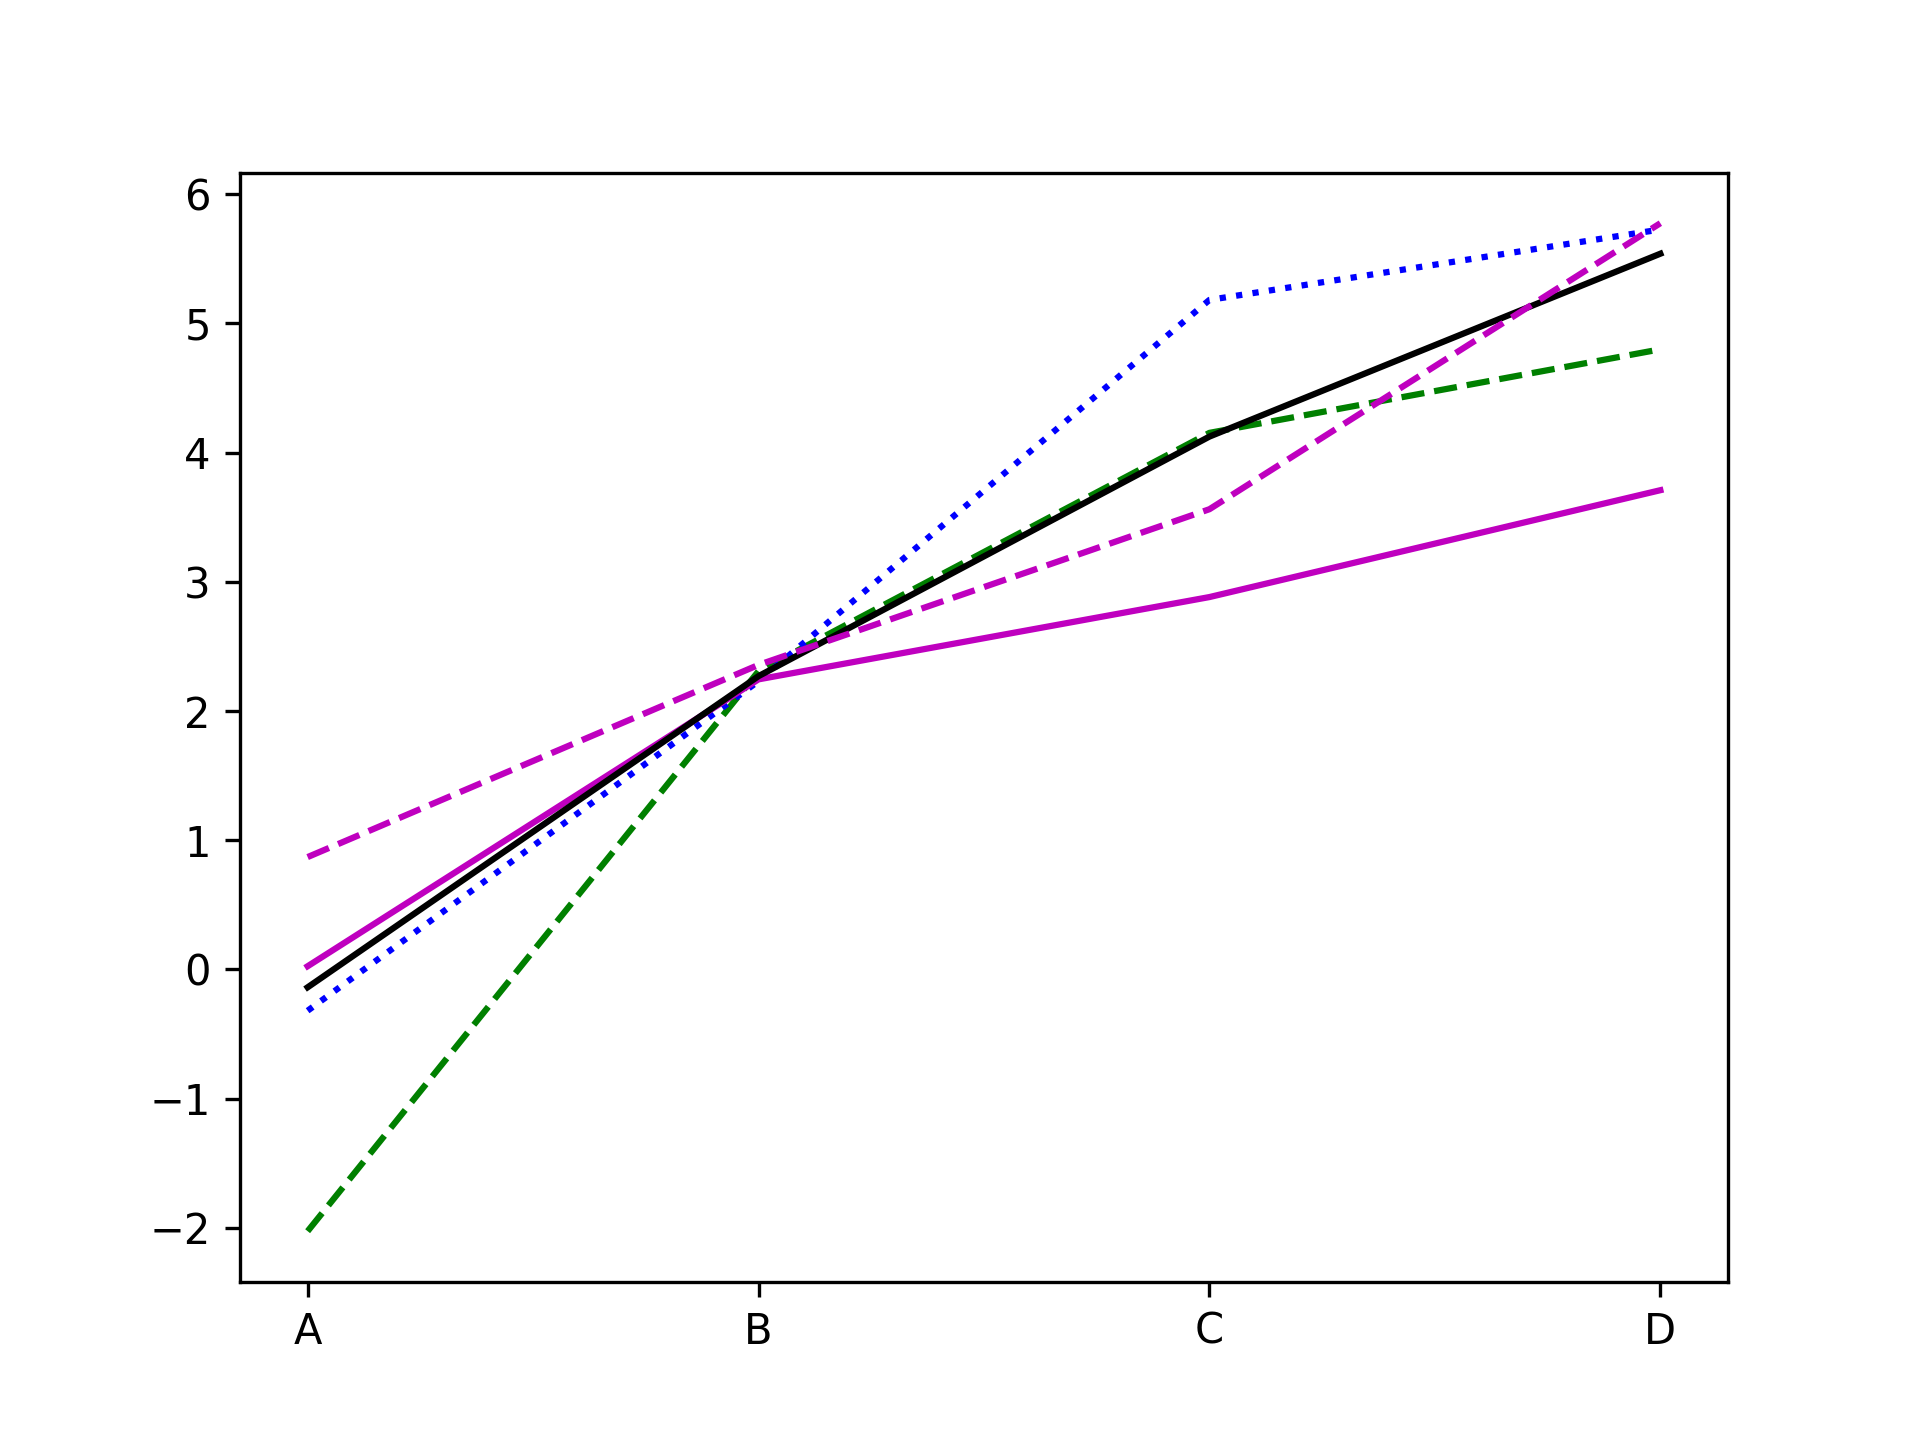
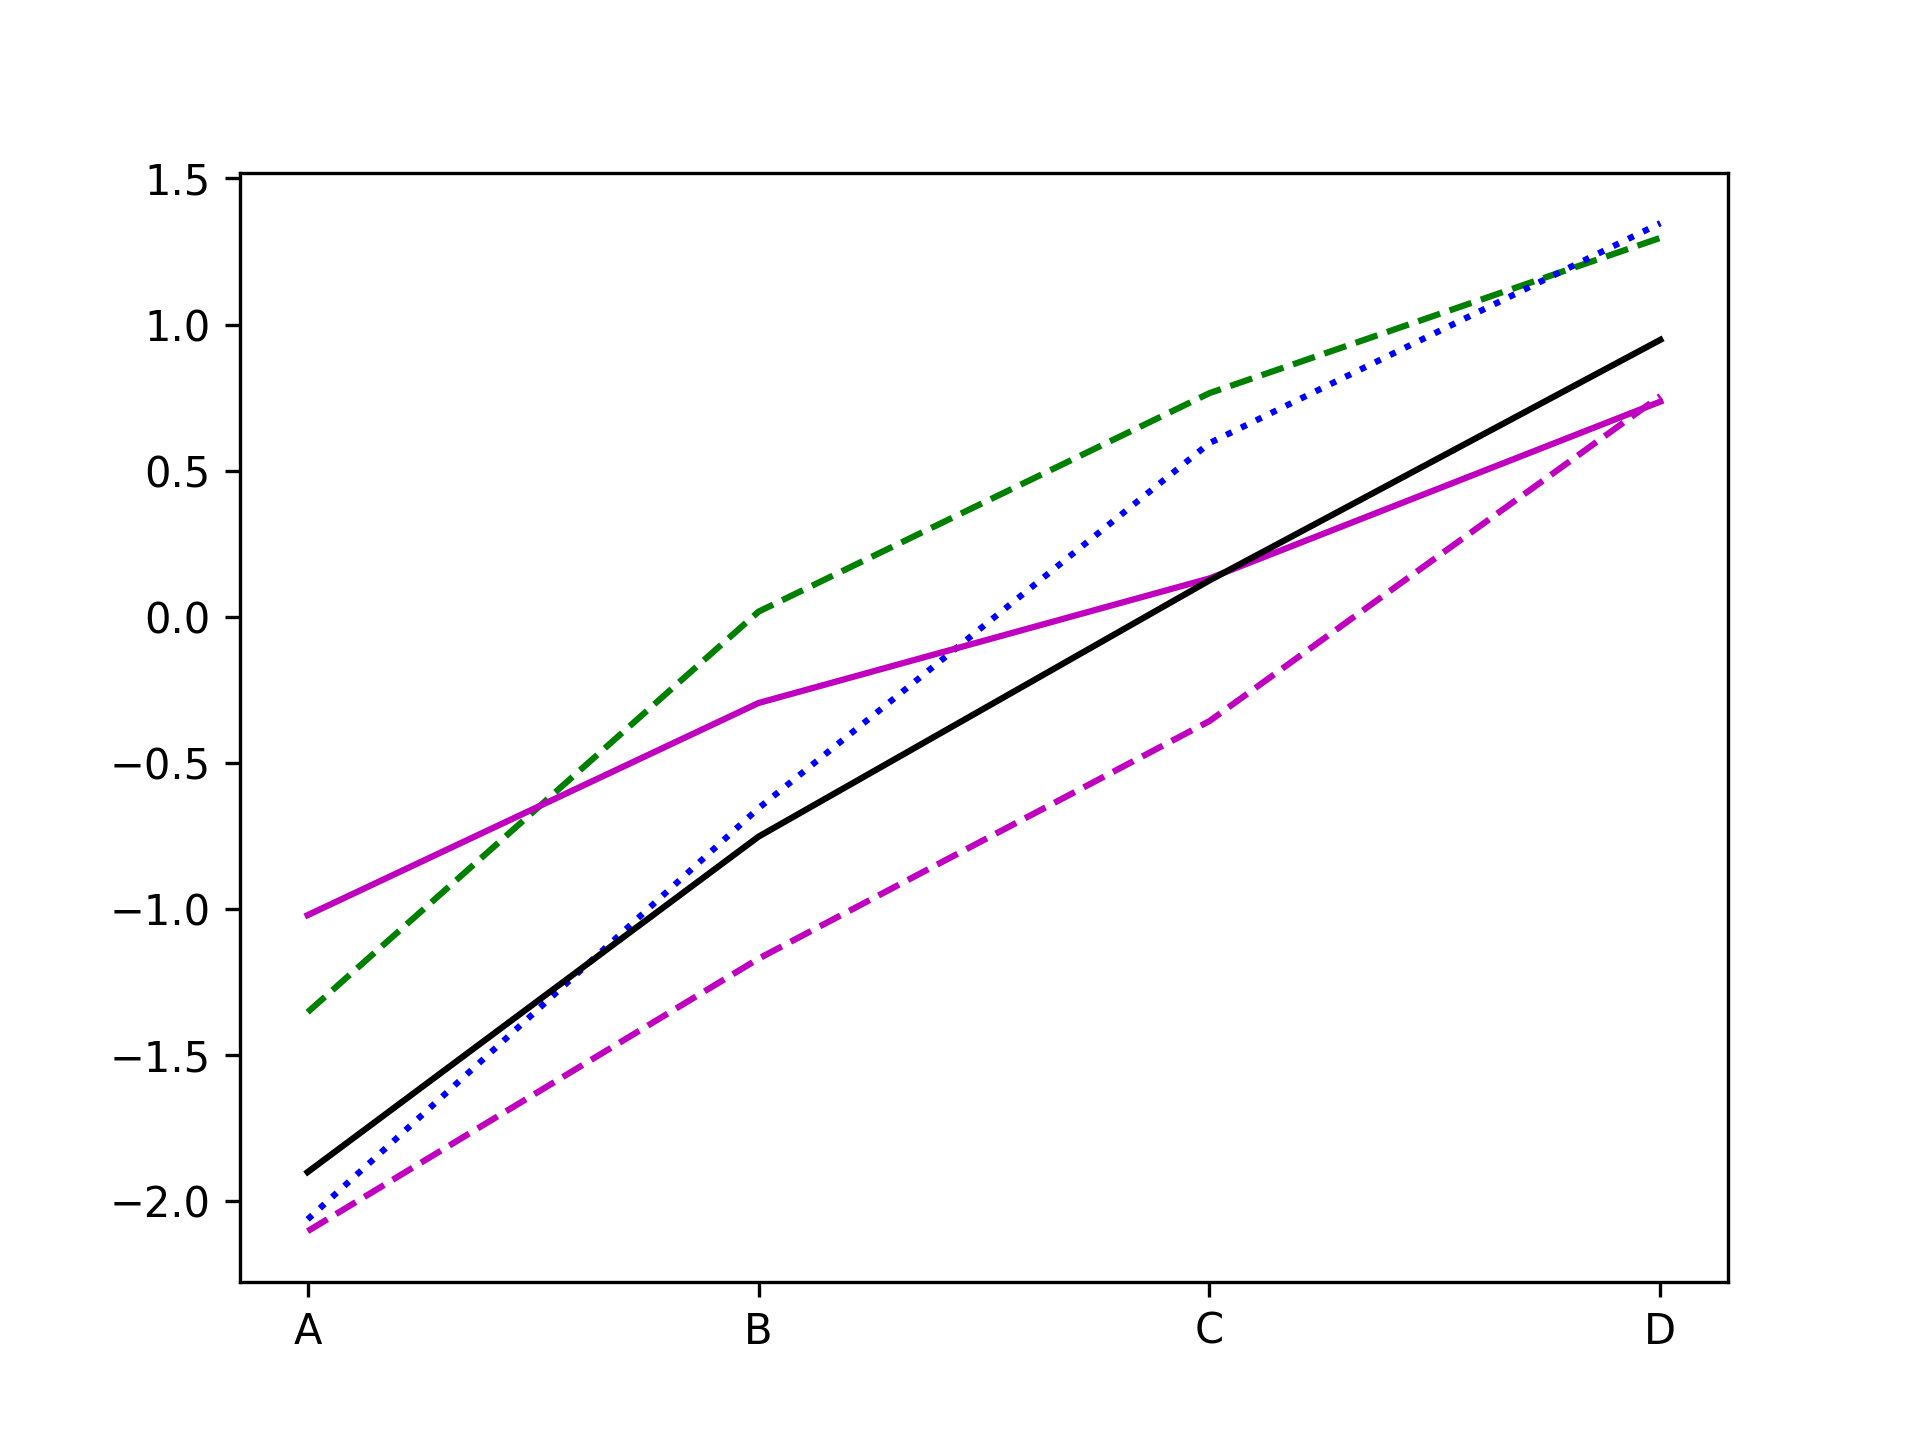
fixed NO2 intraurban diff. plot

diff --git a/no2-diff.py b/no2-diff.py
@@ -7,18 +7,11 @@ from createdf import init
 import matplotlib.pyplot as plt
 import numpy as np
 
-def calculate_pwm(pop, no2):
-   t = ((~np.isnan(pop)) & (~np.isnan(no2)))
-   pop = pop[t]
+def calculate_pwm(target, cities, no2, pop):
+   t = ((cities == target) & (~np.isnan(no2)) & (~np.isnan(pop)))
+   cities = cities[t]
    no2 = no2[t]
-   pwm = np.average(no2, weights = pop)
-   return pwm
-
-def calculate_pwm_grade(grade, target, pop, no2):
-   t = ((grade == target) & (~np.isnan(no2)) & (~np.isnan(pop)))
-   grade = grade[t]
    pop = pop[t]
-   no2 = no2[t]
    pwm = np.average(no2, weights = pop)
    return pwm
 
@@ -26,55 +19,78 @@ def calculate_pwm_grade(grade, target, pop, no2):
 
 df = init()
 
-pwm_hispanic_all = calculate_pwm(df['Hispanic'], df['NO2'])
-pwm_hispanic_A = calculate_pwm_grade(df['Grade'], 'A', df['Hispanic'], df['NO2'])
-pwm_hispanic_B = calculate_pwm_grade(df['Grade'], 'B', df['Hispanic'], df['NO2'])
-pwm_hispanic_C = calculate_pwm_grade(df['Grade'], 'C', df['Hispanic'], df['NO2'])
-pwm_hispanic_D = calculate_pwm_grade(df['Grade'], 'D', df['Hispanic'], df['NO2'])
-h1 = pwm_hispanic_A - pwm_hispanic_all
-h2 = pwm_hispanic_B - pwm_hispanic_all
-h3 = pwm_hispanic_C - pwm_hispanic_all
-h4 = pwm_hispanic_D - pwm_hispanic_all
+cities = list(set(df['City']))
+pwms = {}
+for city in cities:
+   pwms[city] = calculate_pwm(city, df['City'], df['NO2'], df['Total'])
 
-pwm_asian_all = calculate_pwm(df['Asian'], df['NO2'])
-pwm_asian_A = calculate_pwm_grade(df['Grade'], 'A', df['Asian'], df['NO2'])
-pwm_asian_B = calculate_pwm_grade(df['Grade'], 'B', df['Asian'], df['NO2'])
-pwm_asian_C = calculate_pwm_grade(df['Grade'], 'C', df['Asian'], df['NO2'])
-pwm_asian_D = calculate_pwm_grade(df['Grade'], 'D', df['Asian'], df['NO2'])
-a1 = pwm_asian_A - pwm_asian_all
-a2 = pwm_asian_B - pwm_asian_all
-a3 = pwm_asian_C - pwm_asian_all
-a4 = pwm_asian_D - pwm_asian_all
+no2_hispanic_A = []
+no2_hispanic_B = []
+no2_hispanic_C = []
+no2_hispanic_D = []
+no2_asian_A    = []
+no2_asian_B    = []
+no2_asian_C    = []
+no2_asian_D    = []
+no2_black_A    = []
+no2_black_B    = []
+no2_black_C    = []
+no2_black_D    = []
+no2_total_A    = []
+no2_total_B    = []
+no2_total_C    = []
+no2_total_D    = []
+no2_white_A    = []
+no2_white_B    = []
+no2_white_C    = []
+no2_white_D    = []
 
-pwm_black_all = calculate_pwm(df['Black'], df['NO2'])
-pwm_black_A = calculate_pwm_grade(df['Grade'], 'A', df['Black'], df['NO2'])
-pwm_black_B = calculate_pwm_grade(df['Grade'], 'B', df['Black'], df['NO2'])
-pwm_black_C = calculate_pwm_grade(df['Grade'], 'C', df['Black'], df['NO2'])
-pwm_black_D = calculate_pwm_grade(df['Grade'], 'D', df['Black'], df['NO2'])
-b1 = pwm_black_A - pwm_black_all
-b2 = pwm_black_B - pwm_black_all
-b3 = pwm_black_C - pwm_black_all
-b4 = pwm_black_D - pwm_black_all
+for i in df.index:
+   if df['Grade'][i] == 'A':
+      no2_hispanic_A += (df['Hispanic'][i] * [(df['NO2'][i] - pwms[df['City'][i]])])
+      no2_asian_A += (df['Asian'][i] * [(df['NO2'][i] - pwms[df['City'][i]])])
+      no2_black_A += (df['Black'][i] * [(df['NO2'][i] - pwms[df['City'][i]])])
+      no2_total_A += (df['Total'][i] * [(df['NO2'][i] - pwms[df['City'][i]])])
+      no2_white_A += (df['White'][i] * [(df['NO2'][i] - pwms[df['City'][i]])])
+   if df['Grade'][i] == 'B':
+      no2_hispanic_B += (df['Hispanic'][i] * [(df['NO2'][i] - pwms[df['City'][i]])])
+      no2_asian_B += (df['Asian'][i] * [(df['NO2'][i] - pwms[df['City'][i]])])
+      no2_black_B += (df['Black'][i] * [(df['NO2'][i] - pwms[df['City'][i]])])
+      no2_total_B += (df['Total'][i] * [(df['NO2'][i] - pwms[df['City'][i]])])
+      no2_white_B += (df['White'][i] * [(df['NO2'][i] - pwms[df['City'][i]])])
+   if df['Grade'][i] == 'C':
+      no2_hispanic_C += (df['Hispanic'][i] * [(df['NO2'][i] - pwms[df['City'][i]])])
+      no2_asian_C += (df['Asian'][i] * [(df['NO2'][i] - pwms[df['City'][i]])])
+      no2_black_C += (df['Black'][i] * [(df['NO2'][i] - pwms[df['City'][i]])])
+      no2_total_C += (df['Total'][i] * [(df['NO2'][i] - pwms[df['City'][i]])])
+      no2_white_C += (df['White'][i] * [(df['NO2'][i] - pwms[df['City'][i]])])
+   if df['Grade'][i] == 'D':
+      no2_hispanic_D += (df['Hispanic'][i] * [(df['NO2'][i] - pwms[df['City'][i]])])
+      no2_asian_D += (df['Asian'][i] * [(df['NO2'][i] - pwms[df['City'][i]])])
+      no2_black_D += (df['Black'][i] * [(df['NO2'][i] - pwms[df['City'][i]])])
+      no2_total_D += (df['Total'][i] * [(df['NO2'][i] - pwms[df['City'][i]])])
+      no2_white_D += (df['White'][i] * [(df['NO2'][i] - pwms[df['City'][i]])])
 
-pwm_total_all = calculate_pwm(df['Total'], df['NO2'])
-pwm_total_A = calculate_pwm_grade(df['Grade'], 'A', df['Total'], df['NO2'])
-pwm_total_B = calculate_pwm_grade(df['Grade'], 'B', df['Total'], df['NO2'])
-pwm_total_C = calculate_pwm_grade(df['Grade'], 'C', df['Total'], df['NO2'])
-pwm_total_D = calculate_pwm_grade(df['Grade'], 'D', df['Total'], df['NO2'])
-t1 = pwm_total_A - pwm_total_all
-t2 = pwm_total_B - pwm_total_all
-t3 = pwm_total_C - pwm_total_all
-t4 = pwm_total_D - pwm_total_all
-
-pwm_white_all = calculate_pwm(df['White'], df['NO2'])
-pwm_white_A = calculate_pwm_grade(df['Grade'], 'A', df['White'], df['NO2'])
-pwm_white_B = calculate_pwm_grade(df['Grade'], 'B', df['White'], df['NO2'])
-pwm_white_C = calculate_pwm_grade(df['Grade'], 'C', df['White'], df['NO2'])
-pwm_white_D = calculate_pwm_grade(df['Grade'], 'D', df['White'], df['NO2'])
-w1 = pwm_white_A - pwm_white_all
-w2 = pwm_white_B - pwm_white_all
-w3 = pwm_white_C - pwm_white_all
-w4 = pwm_white_D - pwm_white_all
+h1 = np.average(no2_hispanic_A)
+h2 = np.average(no2_hispanic_B)
+h3 = np.average(no2_hispanic_C)
+h4 = np.average(no2_hispanic_D)
+a1 = np.average(no2_asian_A)
+a2 = np.average(no2_asian_B)
+a3 = np.average(no2_asian_C)
+a4 = np.average(no2_asian_D)
+b1 = np.average(no2_black_A)
+b2 = np.average(no2_black_B)
+b3 = np.average(no2_black_C)
+b4 = np.average(no2_black_D)
+t1 = np.average(no2_total_A)
+t2 = np.average(no2_total_B)
+t3 = np.average(no2_total_C)
+t4 = np.average(no2_total_D)
+w1 = np.average(no2_white_A)
+w2 = np.average(no2_white_B)
+w3 = np.average(no2_white_C)
+w4 = np.average(no2_white_D)
 
 x_ax = ['A', 'B', 'C', 'D']
 
